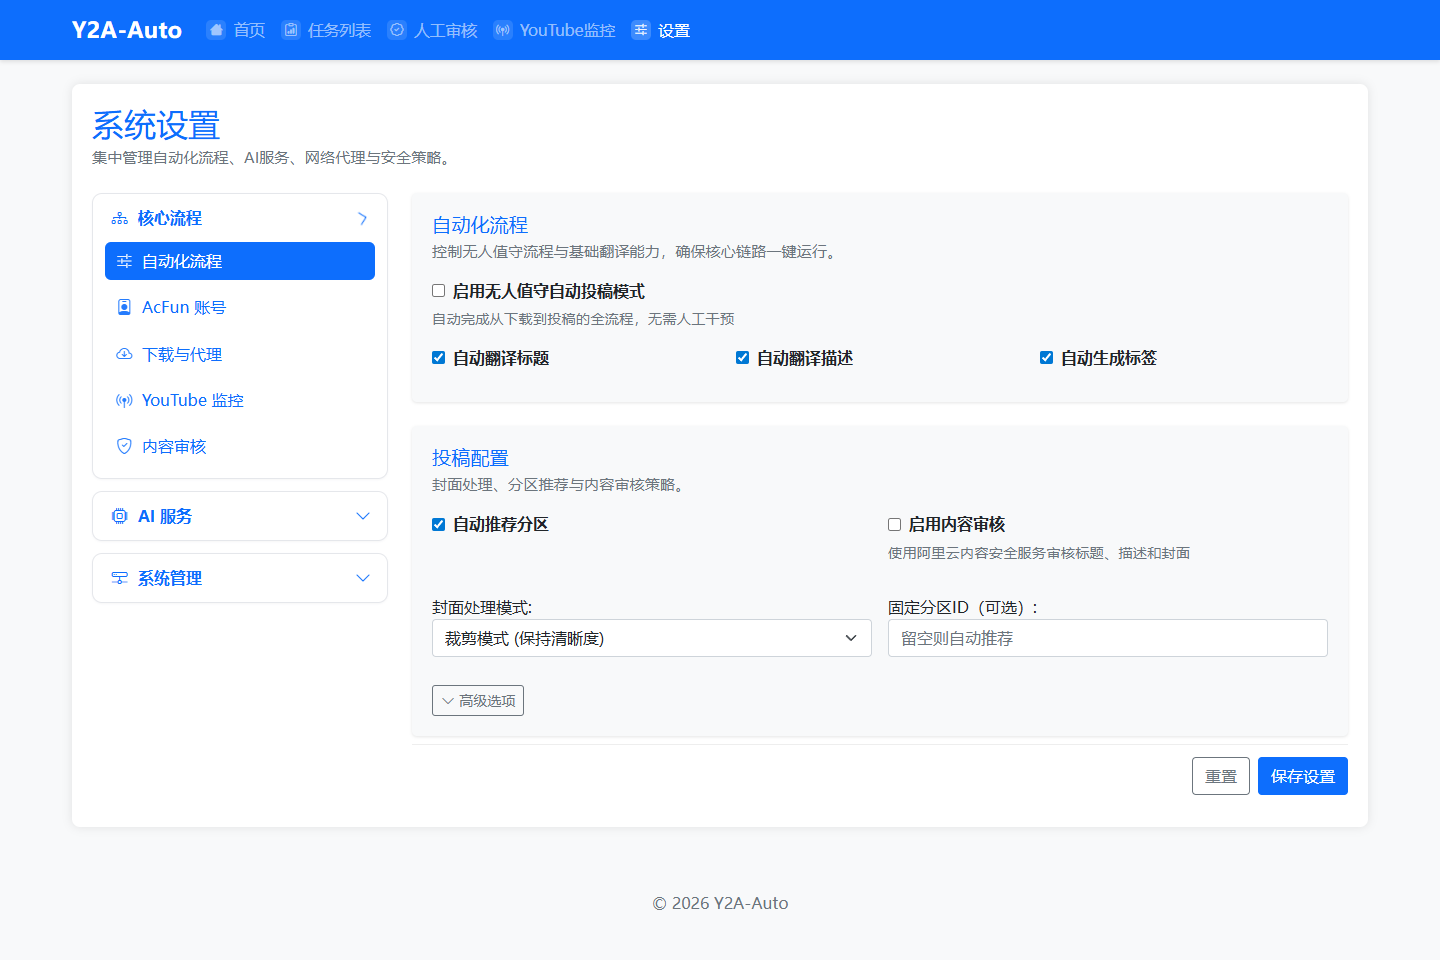
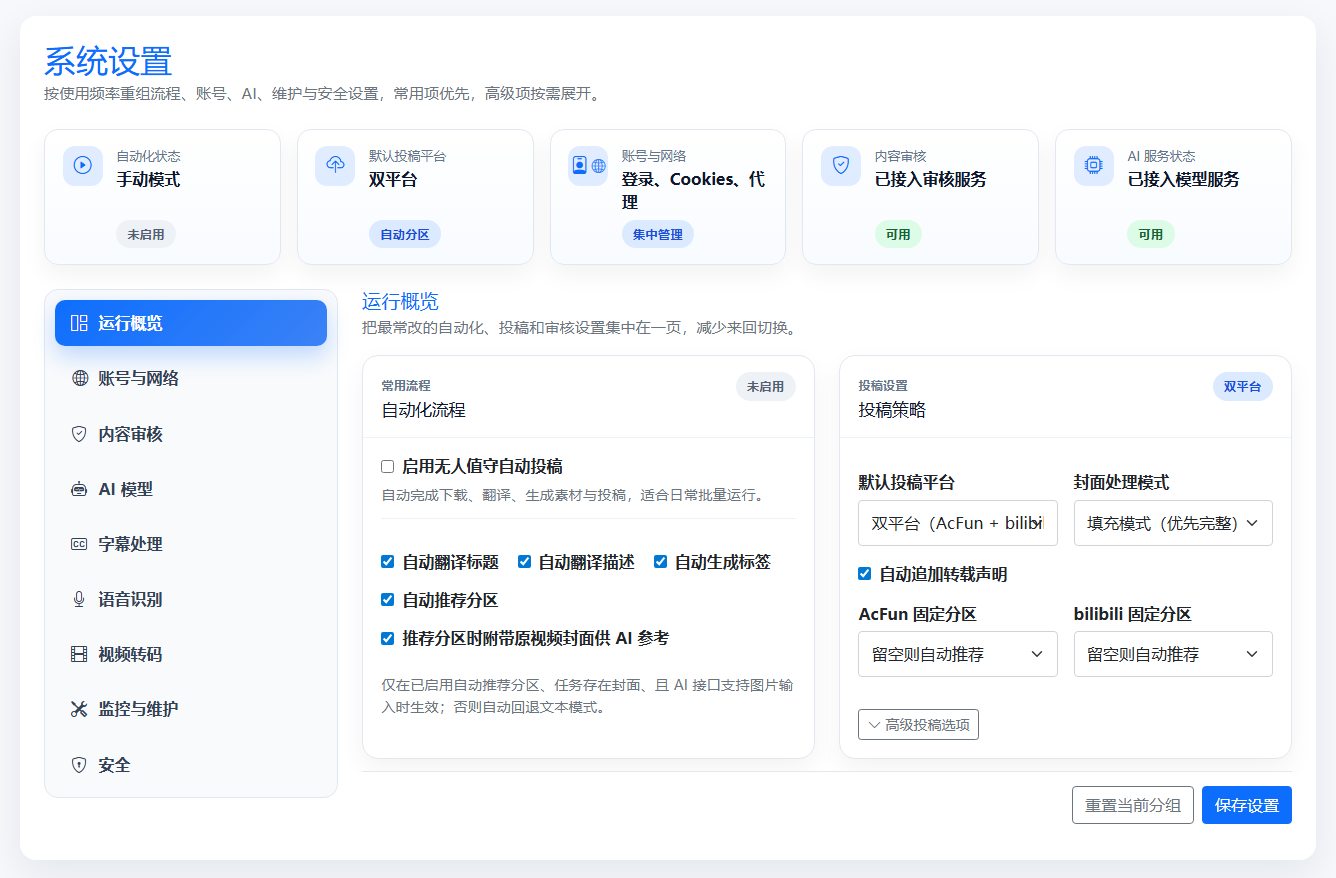
更新 README.md 中的描述，修改截图说明为“当前页面截图”；更新多个截图文件以反映最新界面

diff --git a/README.md b/README.md
@@ -41,7 +41,7 @@
 </p>
 
 <div align="center">
-  <sub>以上为真实页面截图。</sub>
+  <sub>以上为当前页面截图。</sub>
 </div>
 
 ## 核心亮点